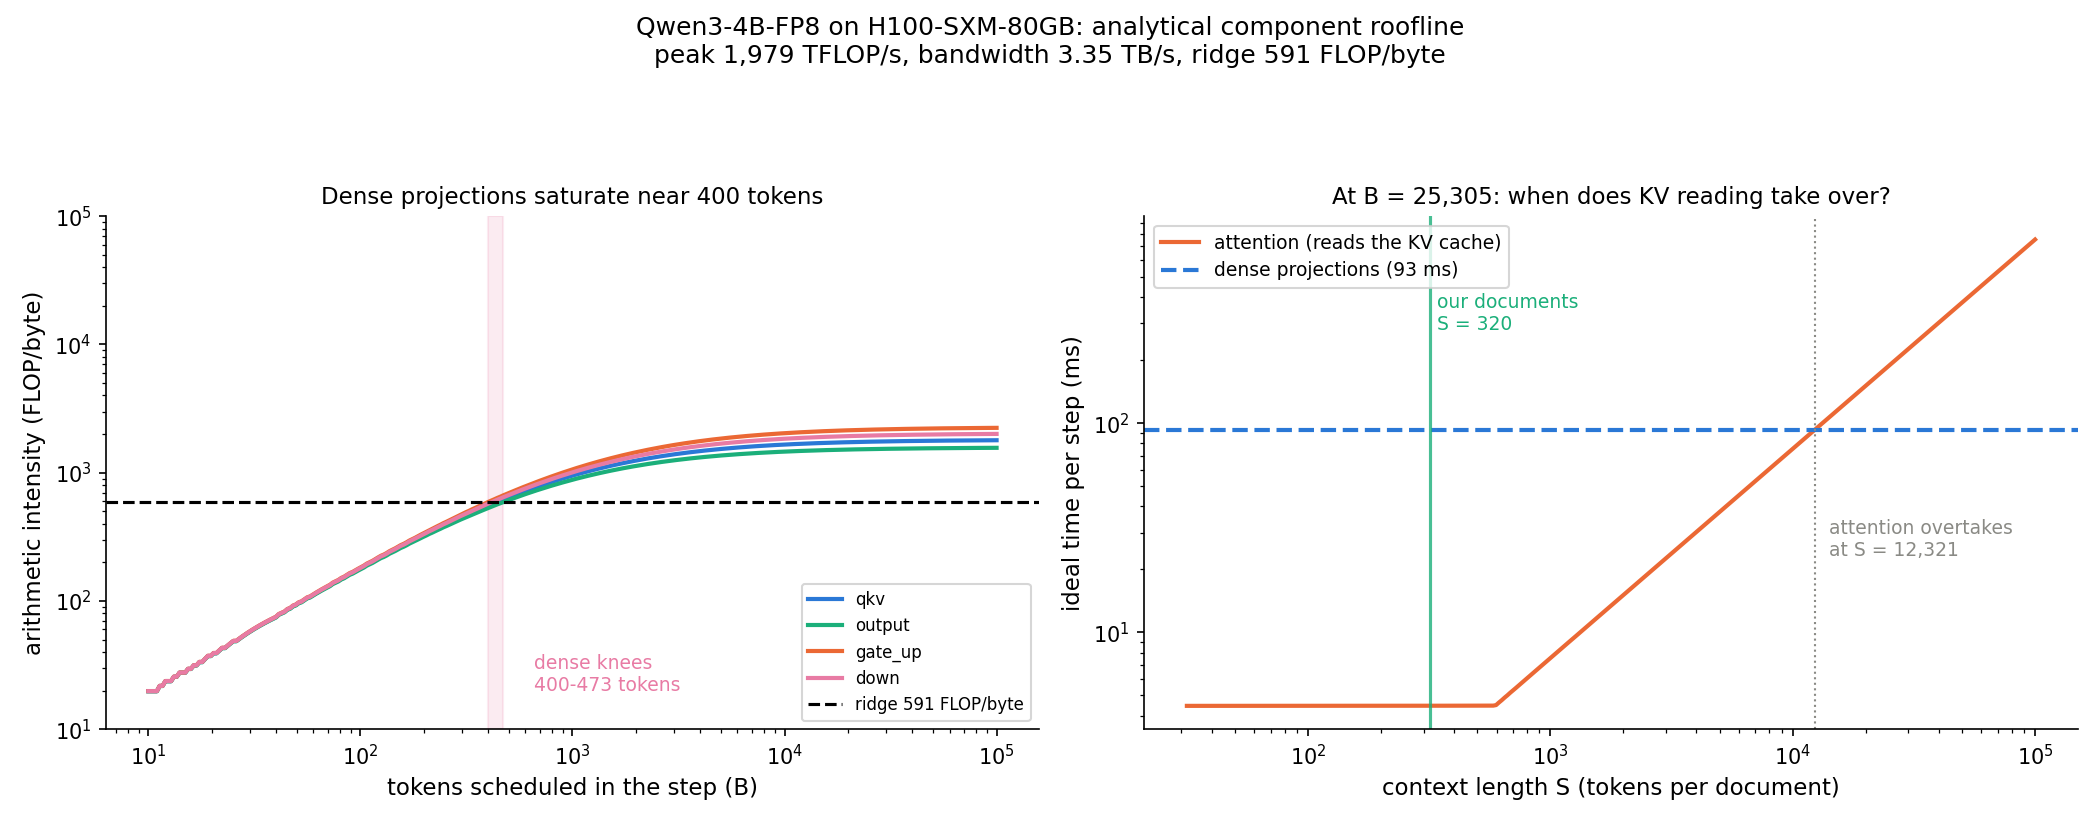
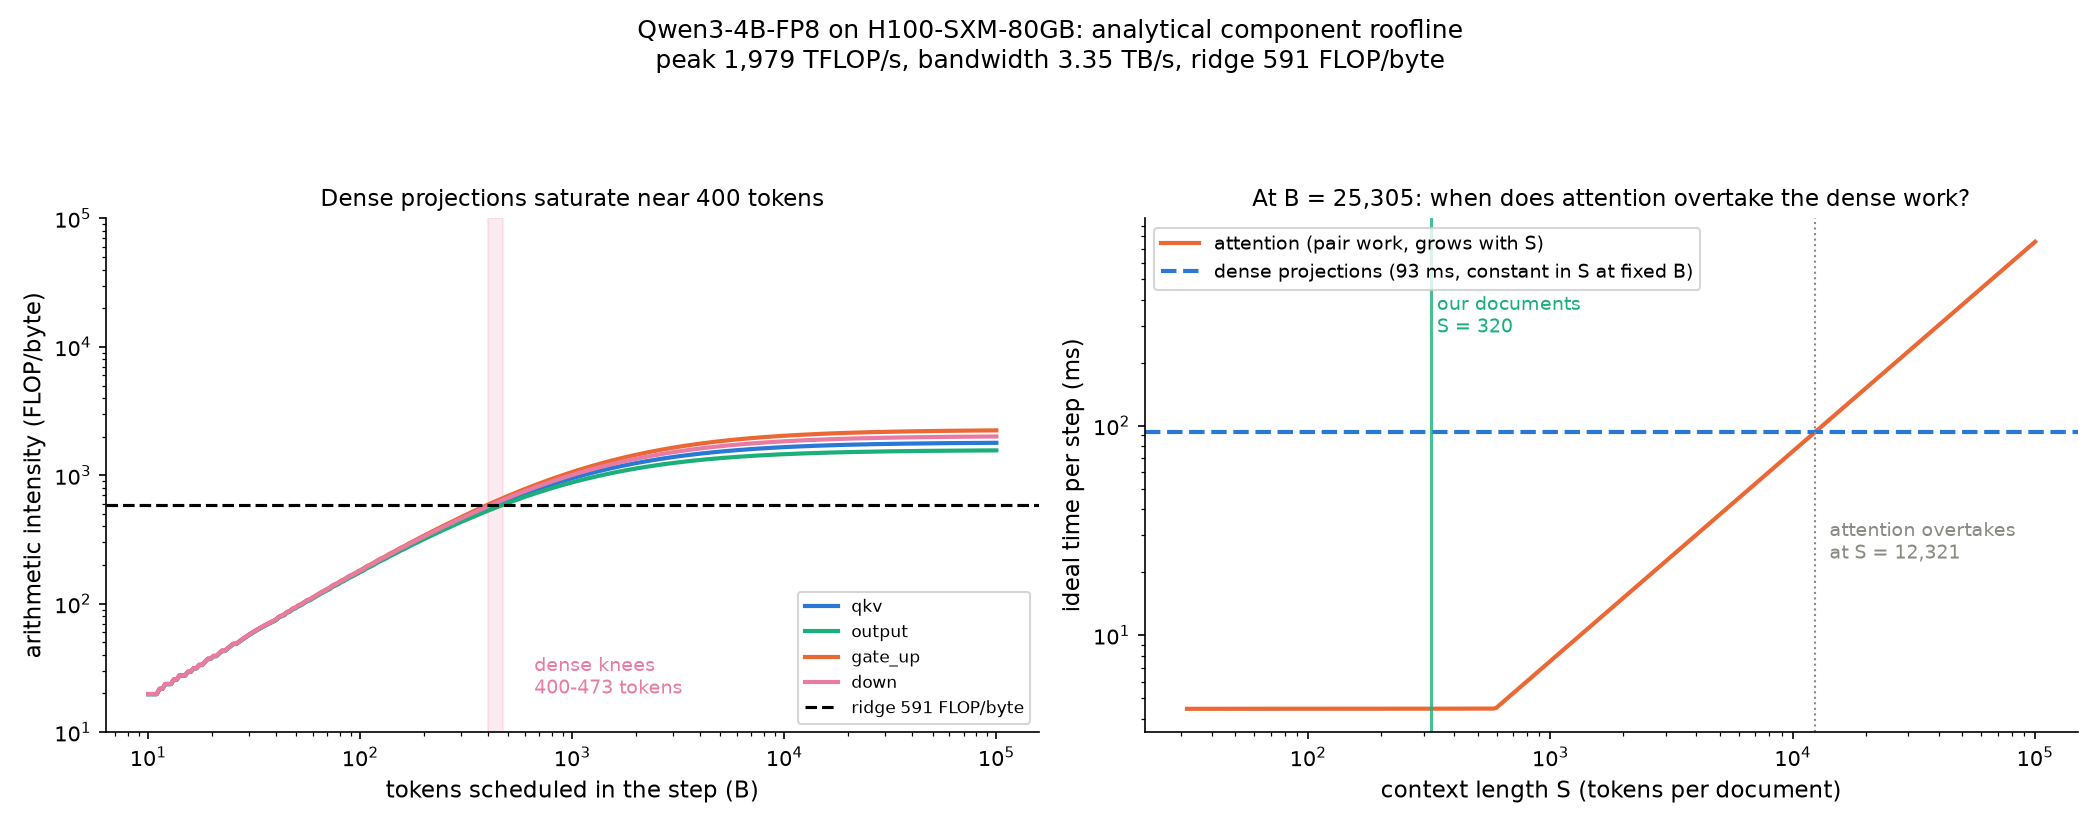
Correct the roofline right panel's labels
At B = 25,305 the rising segment of the attention curve is pair
FLOPs, not KV-byte traffic: the analytical formula shares one
S-token context across the step, so the amortized KV read would
bind only below B ~ 74. The legend called the curve "reads the KV
cache" and the title asked "when does KV reading take over" - both
imported the filter-regime intuition (many documents, each read by
a 16-64 token suffix) onto a panel that models a shared context.
The curve, the crossover at S = 12,321, and the flat activation
floor are unchanged; only the words now match the arithmetic.

Claude-Session: https://claude.ai/code/session_01XpBV1e5L6x3JaKkaWZosha

diff --git a/plots/make_figures.py b/plots/make_figures.py
@@ -179,12 +179,17 @@ def roofline_4b():
 
     Ss = np.logspace(1.5, 5, 300)
     B_fix = 25_305
+    # attention_time shares one S-token context across the step's B
+    # tokens, so at this B the rising segment is pair FLOPs, not KV
+    # bytes (the amortized read only binds below B ~ 74); the flat
+    # floor is the activation traffic, constant in S.
     ax2.loglog(Ss, [rf.attention_time(M, D, B_fix, int(s)) * 1e3
                     for s in Ss], color=ORANGE, lw=2,
-               label="attention (reads the KV cache)")
+               label="attention (pair work, grows with S)")
     dense_ms = rf.projection_time(M, D, B_fix) * 1e3
     ax2.axhline(dense_ms, color=BLUE, ls="--", lw=2,
-                label=f"dense projections ({dense_ms:.0f} ms)")
+                label=f"dense projections ({dense_ms:.0f} ms, "
+                      "constant in S at fixed B)")
     cross = rf.attention_crossover_S(M, D, B_fix)
     ax2.axvline(cross, color=GRAY, ls=":", lw=1)
     ax2.axvline(320, color=GREEN, lw=1.5, alpha=0.8)
@@ -195,8 +200,8 @@ def roofline_4b():
              color=GRAY)
     ax2.set_xlabel("context length S (tokens per document)", fontsize=11)
     ax2.set_ylabel("ideal time per step (ms)", fontsize=11)
-    ax2.set_title(f"At B = {B_fix:,}: when does KV reading take over?",
-                  fontsize=11)
+    ax2.set_title(f"At B = {B_fix:,}: when does attention overtake "
+                  "the dense work?", fontsize=11)
     ax2.legend(fontsize=9, loc="upper left")
 
     for ax in (ax1, ax2):
